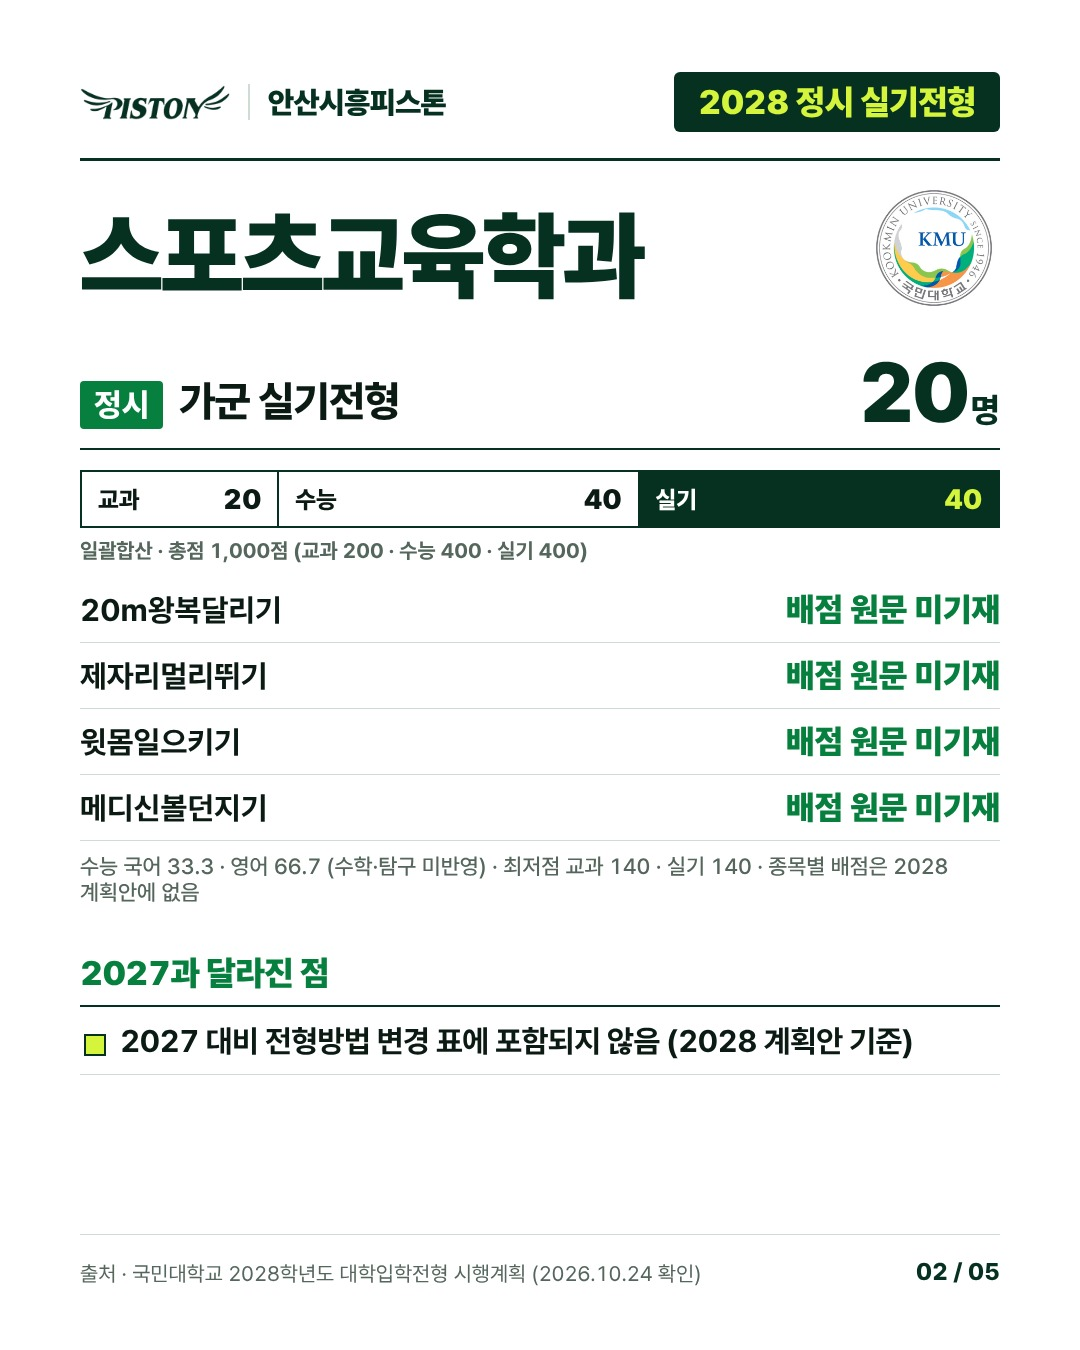
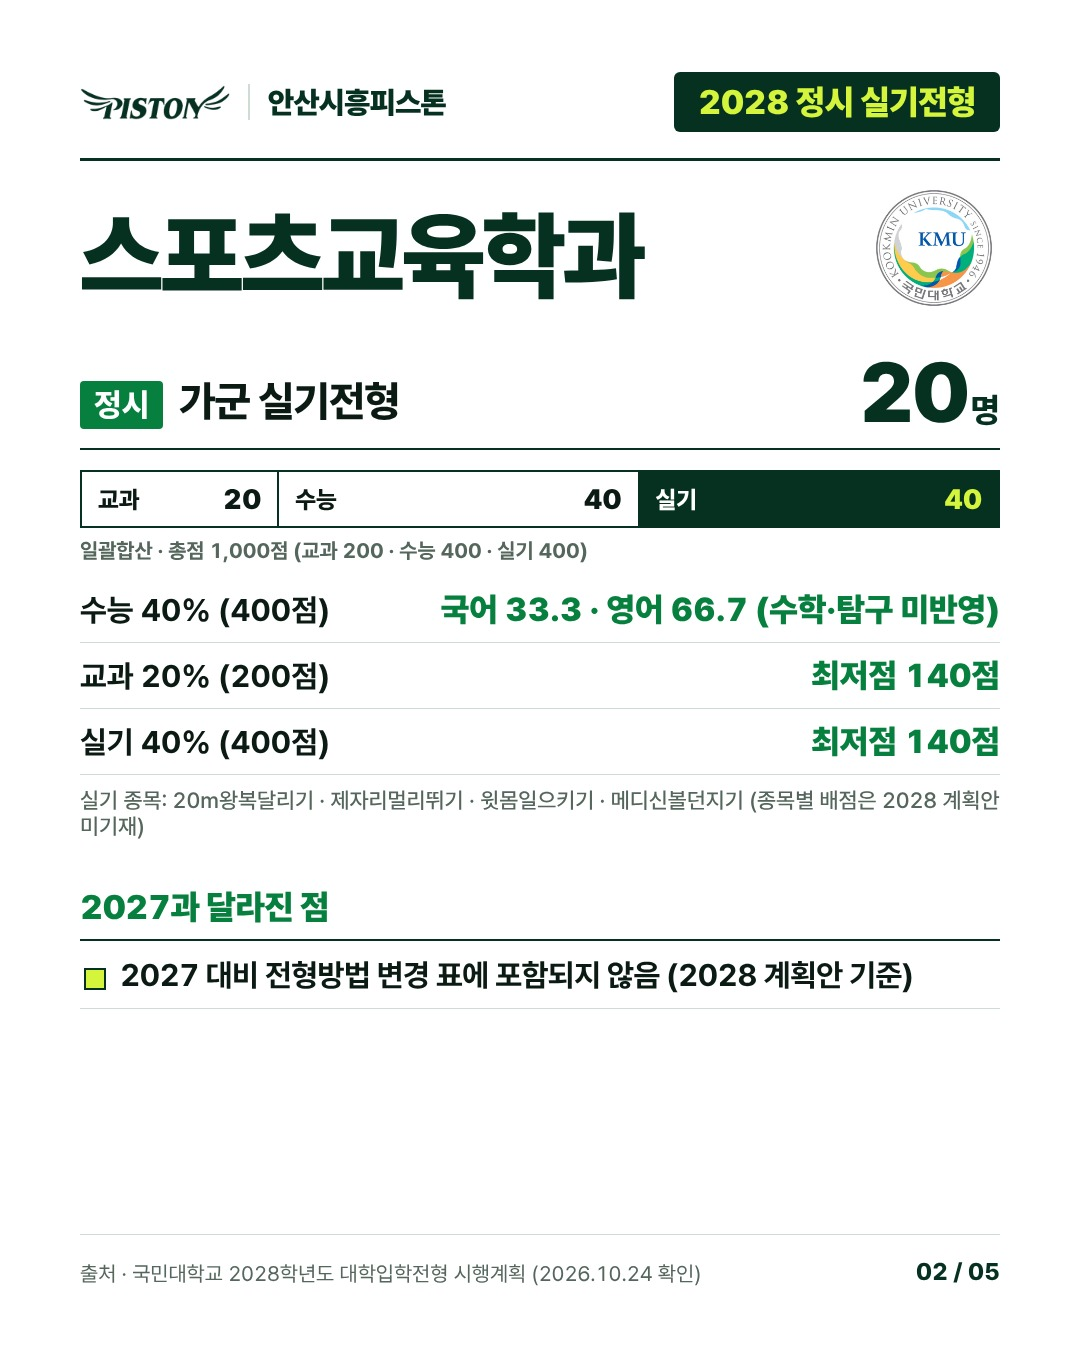
국민대 학과 슬라이드: 종목 줄 대신 수능 반영방법
Claude-Session: https://claude.ai/code/session_01EGTn7G8nWP1yv5M2jqmoFb

Changed region(s): [[0.0611, 0.4356, 0.9472, 0.7778]]

diff --git a/social/out/kookmin-jeongsi/blog.md b/social/out/kookmin-jeongsi/blog.md
@@ -12,7 +12,7 @@
 ### 정시 가군 실기전형 — 20명
 - 반영비율: 교과 20% + 수능 40% + 실기 40% (일괄합산 · 총점 1,000점 (교과 200 · 수능 400 · 실기 400))
 - 실기종목: 20m왕복달리기 배점 원문 미기재, 제자리멀리뛰기 배점 원문 미기재, 윗몸일으키기 배점 원문 미기재, 메디신볼던지기 배점 원문 미기재
-- 수능 국어 33.3 · 영어 66.7 (수학·탐구 미반영) · 최저점 교과 140 · 실기 140 · 종목별 배점은 2028 계획안에 없음
+- 실기 종목: 20m왕복달리기 · 제자리멀리뛰기 · 윗몸일으키기 · 메디신볼던지기 (종목별 배점은 2028 계획안 미기재)
 
 [이미지: post-2.jpg]
 
@@ -20,7 +20,7 @@
 ### 정시 가군 실기전형 — 20명
 - 반영비율: 수능 60% + 실기 40% (일괄합산 · 총점 1,000점 (수능 600 · 실기 400))
 - 실기종목: 20m왕복달리기 배점 원문 미기재, 수직점프 배점 원문 미기재, 제자리멀리뛰기 배점 원문 미기재, 농구 골밑슛 배점 원문 미기재
-- 수능 국어 33.3 · 영어 33.3 · 탐구 33.3 (수학 미반영) · 최저점 실기 140 · 종목별 배점은 2028 계획안에 없음
+- 실기 종목: 20m왕복달리기 · 수직점프 · 제자리멀리뛰기 · 농구 골밑슛 (종목별 배점은 2028 계획안 미기재)
 
 [이미지: post-3.jpg]
 
